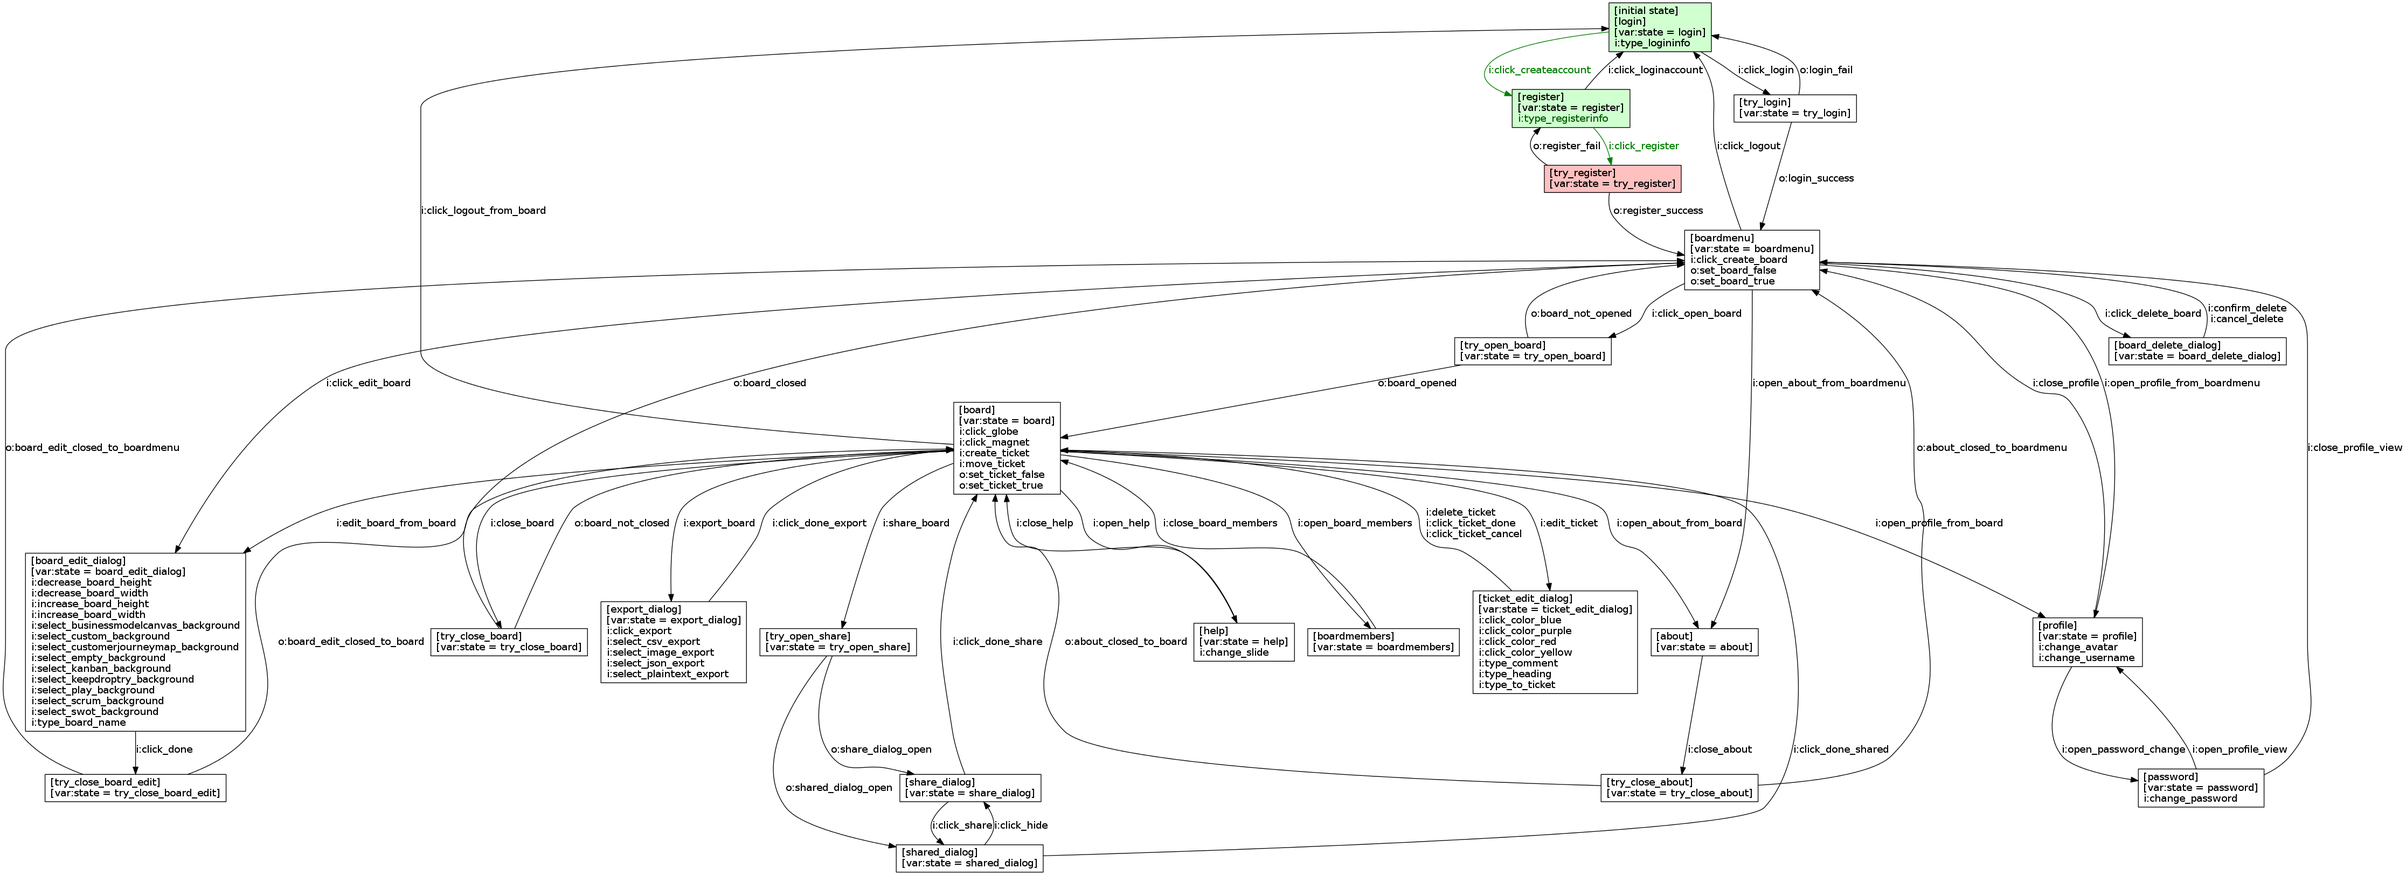
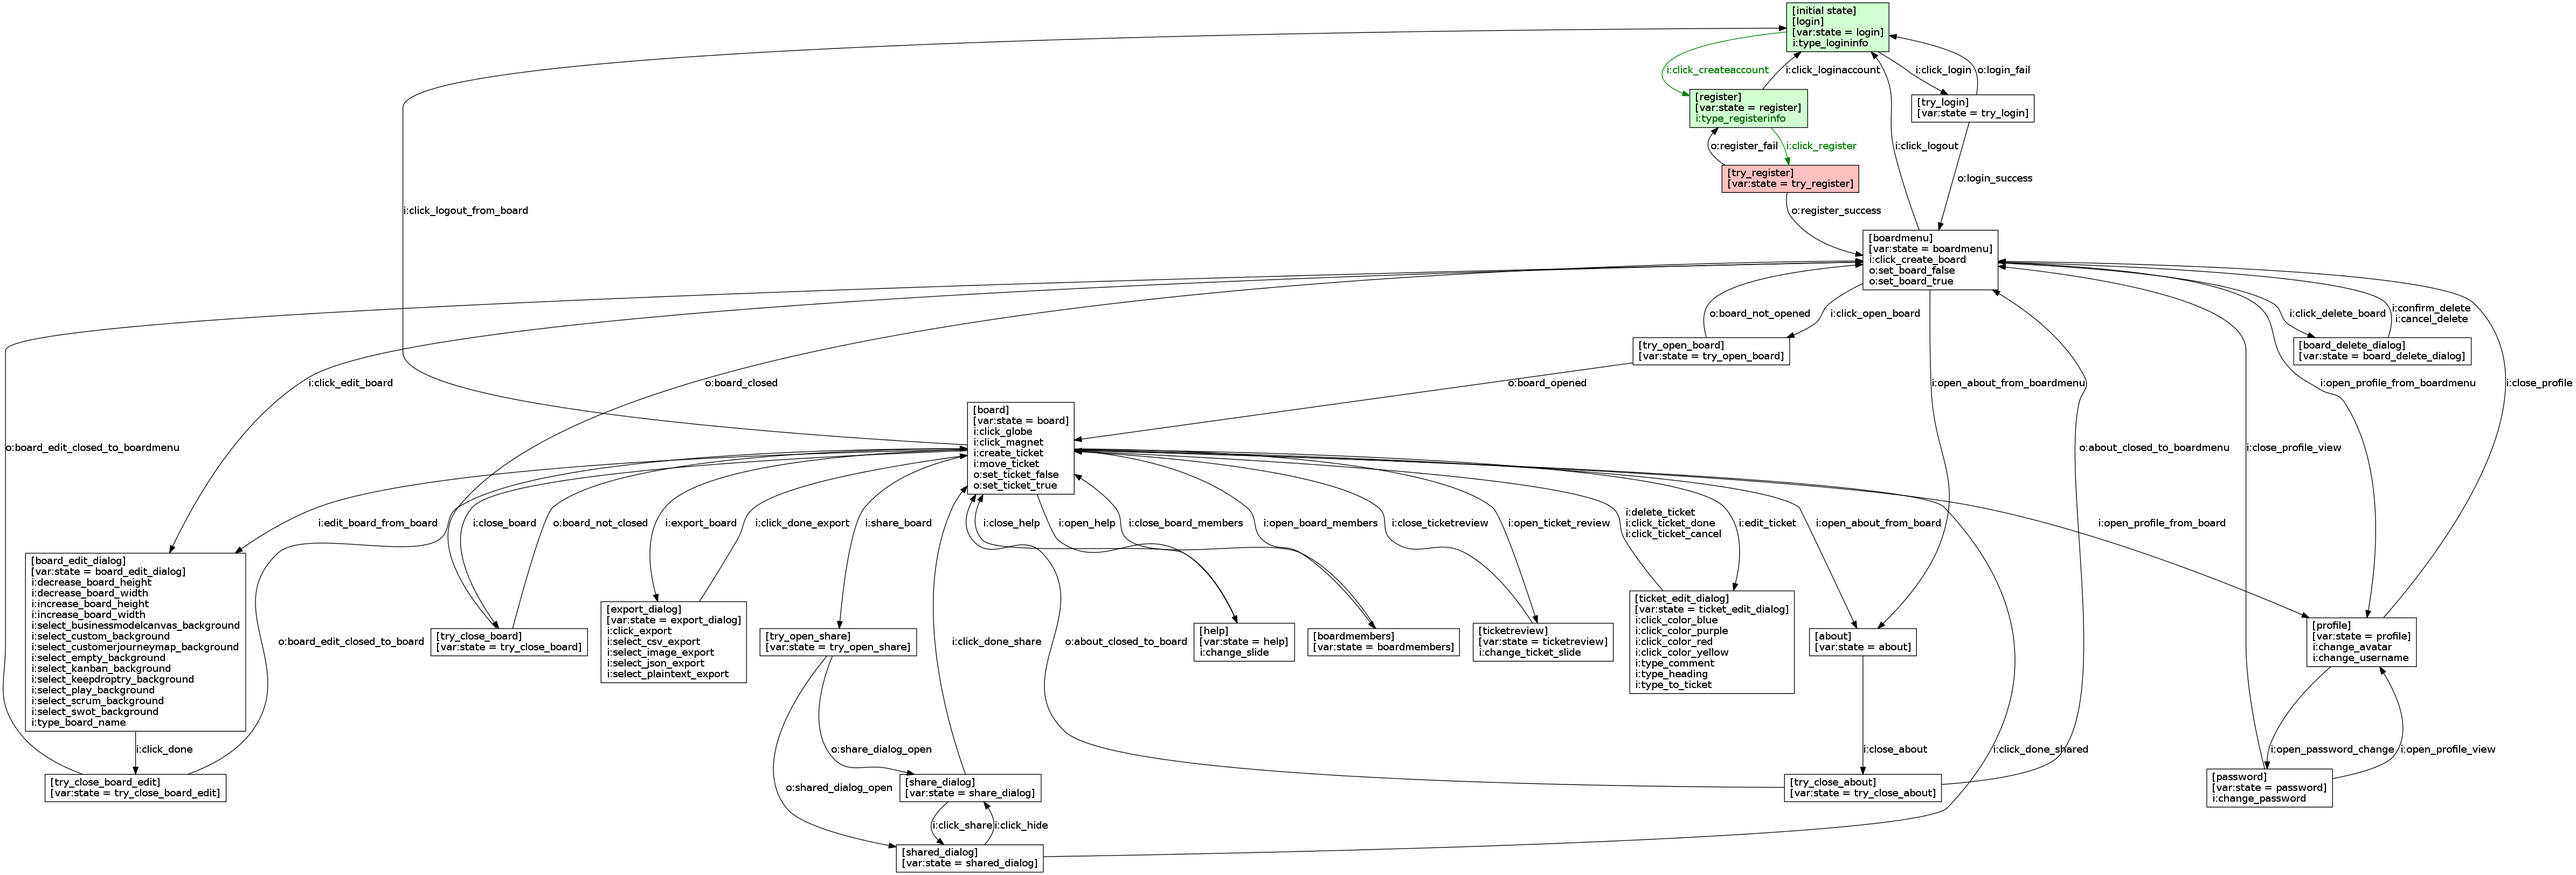
Add ticket review to testmodel

diff --git a/fmbt/Contriboard/adapters/seleniumadapter.py b/fmbt/Contriboard/adapters/seleniumadapter.py
@@ -56,7 +56,8 @@ stateAssets = {
 	"help" 	: ["//div[@class='infospace']"],
 	"about" 	: 	["//form[@class='dialog dialog-about']"],
 	"boardmembers" 	: 	["//form[@class='dialog dialog-board-members']"],
-	"profile" 	: 	["//div[@class='view-settings']"]
+	"profile" 	: 	["//div[@class='view-settings']"],
+	"ticketreview" 	: 	["//div[@class='review-overlay']"]
 }
 
 def rs():
@@ -624,14 +625,28 @@ def closeAbout():
 
 def openTicketReview():
 	rs()
+	driver.find_element_by_xpath("//span[@class='fa fa-fw fa-eye']").click()
 	wait()
 
-def changeTicketSlide():
+def changeTicketSlideRight():
 	rs()
-	wait()
+	if isElement("//span[@class='fa fa-chevron-right']") == True:
+		driver.find_element_by_xpath("//span[@class='fa fa-chevron-right']").click()
+		wait()
+	else:
+		wait()
+
+def changeTicketSlideLeft():
+	rs()
+	if isElement("//span[@class='fa fa-chevron-left']") == True:
+		driver.find_element_by_xpath("//span[@class='fa fa-chevron-left']").click()
+		wait()
+	else:
+		wait()
 
 def closeTicketReview():
 	rs()
+	driver.find_element_by_xpath("//span[@class='fa fa-fw fa-times']").click()
 	wait()
 
 # checks
